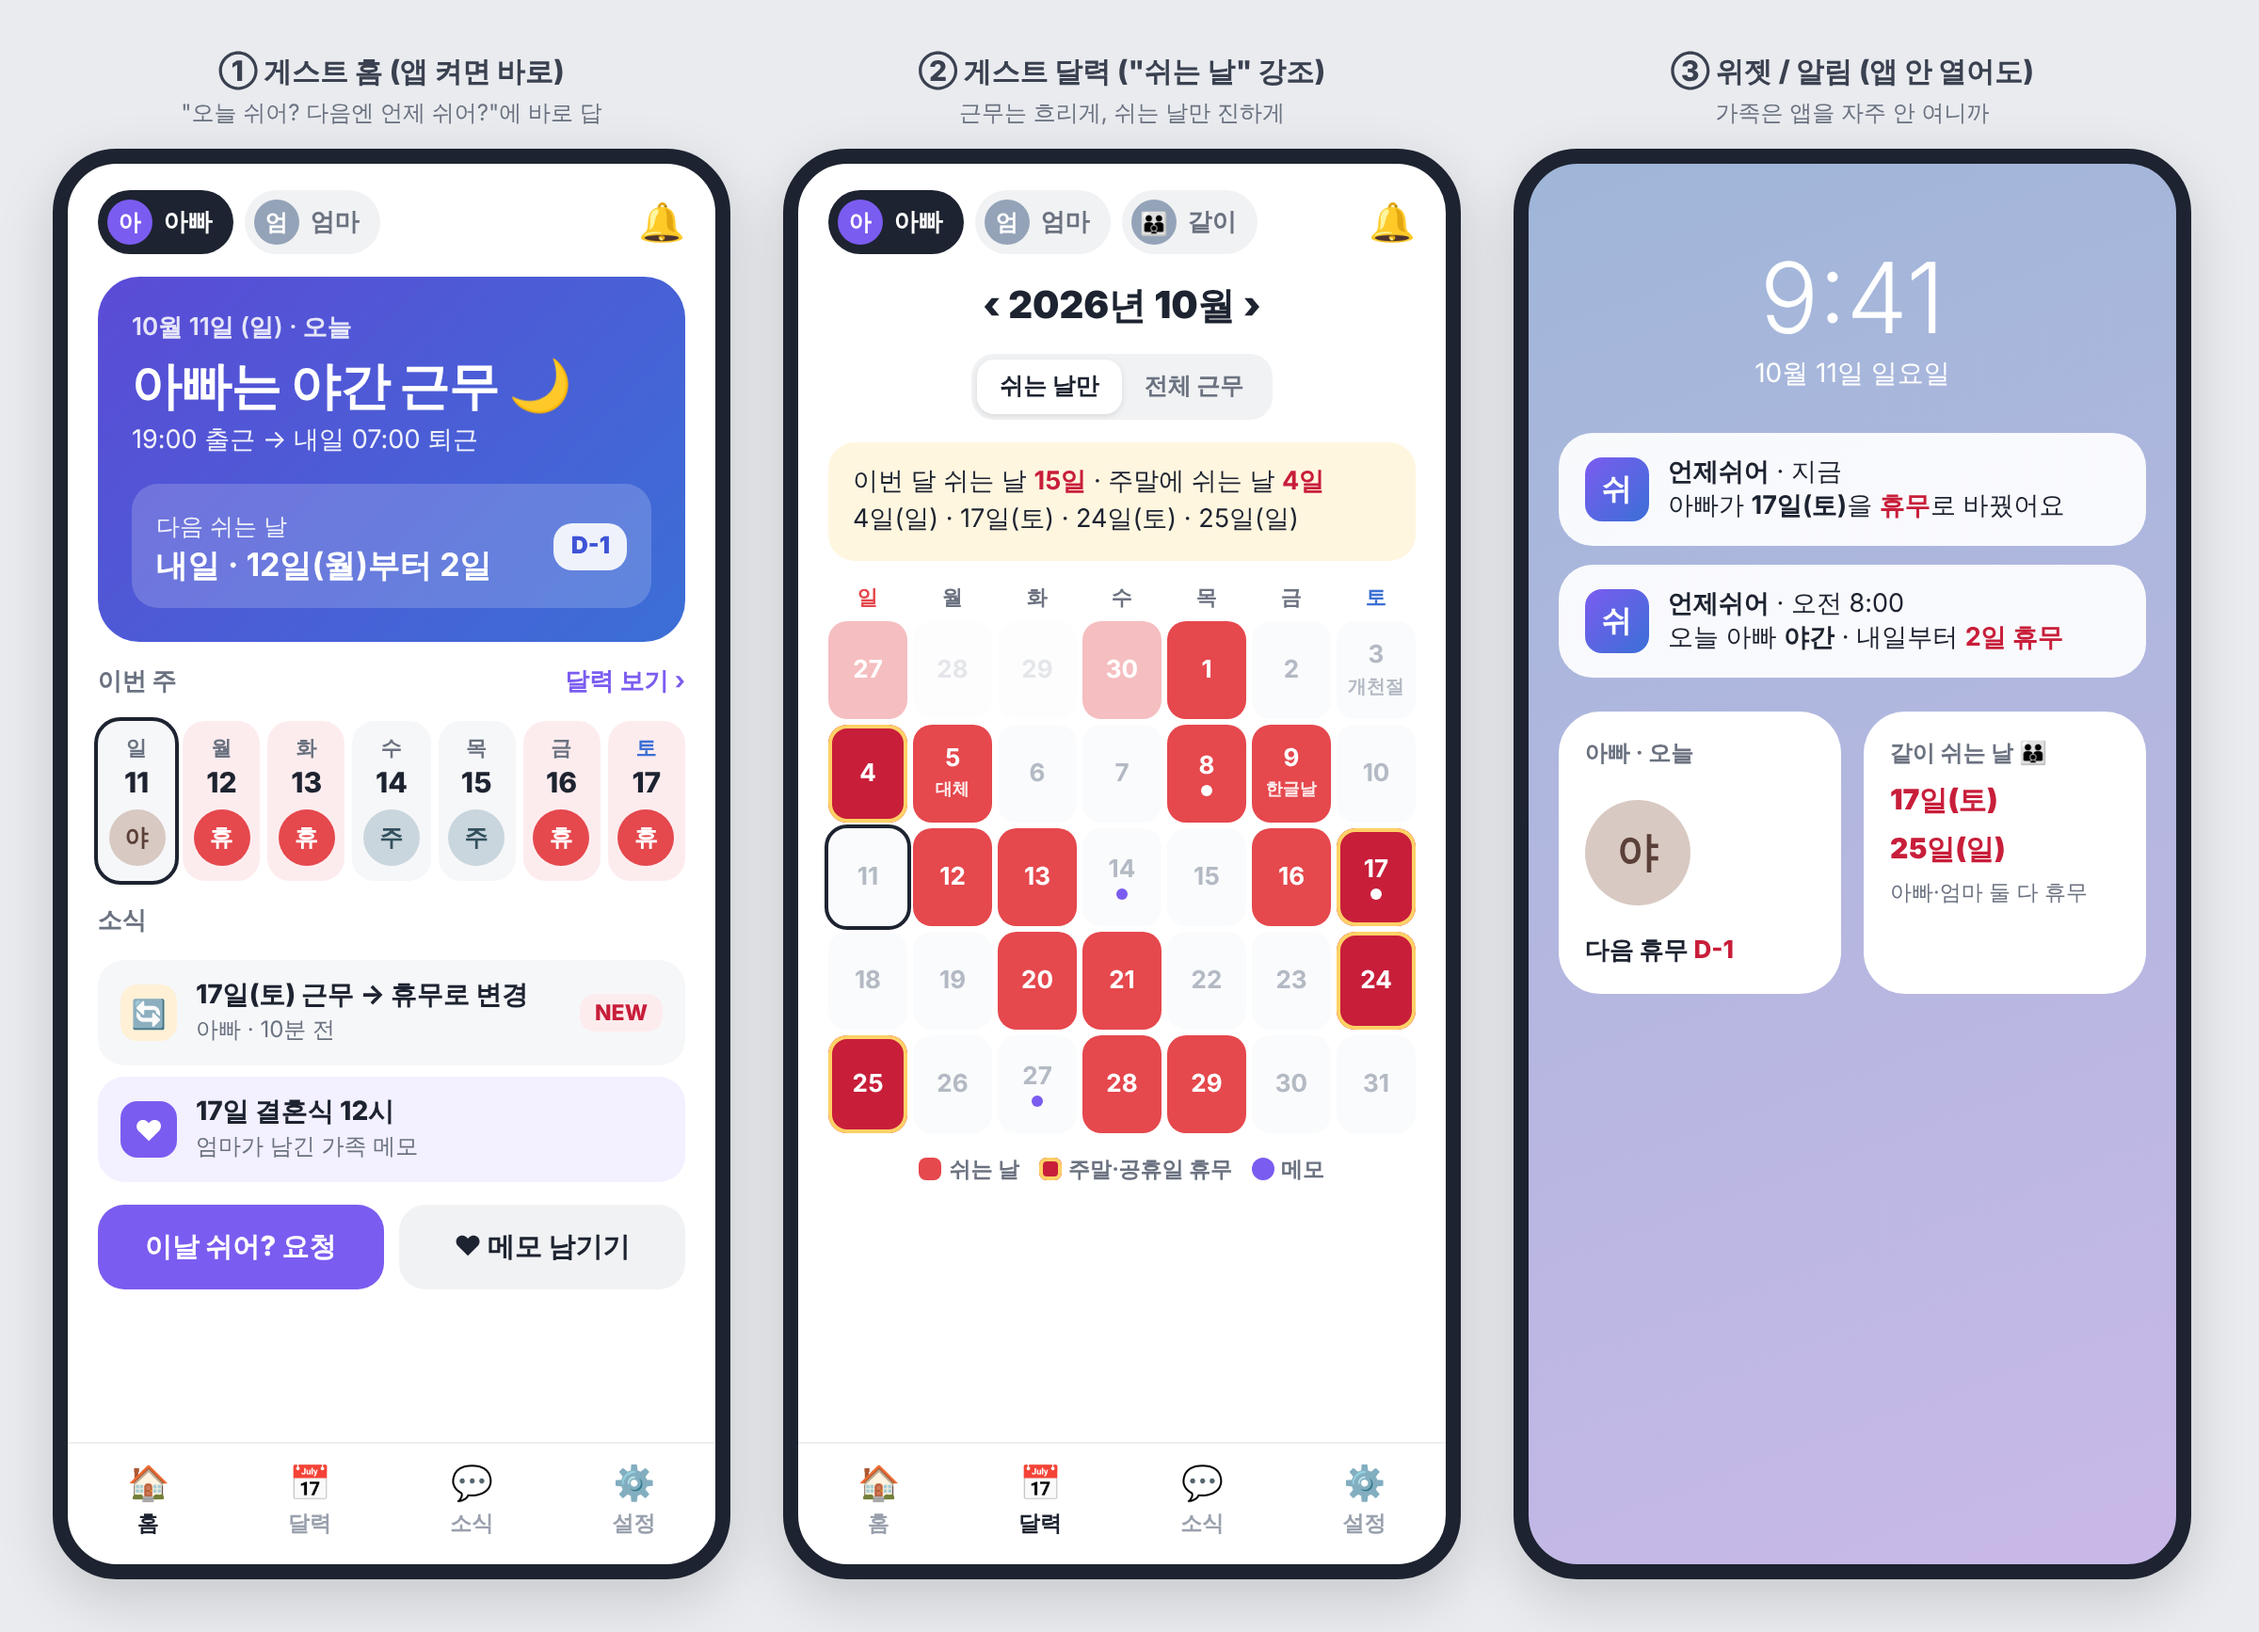
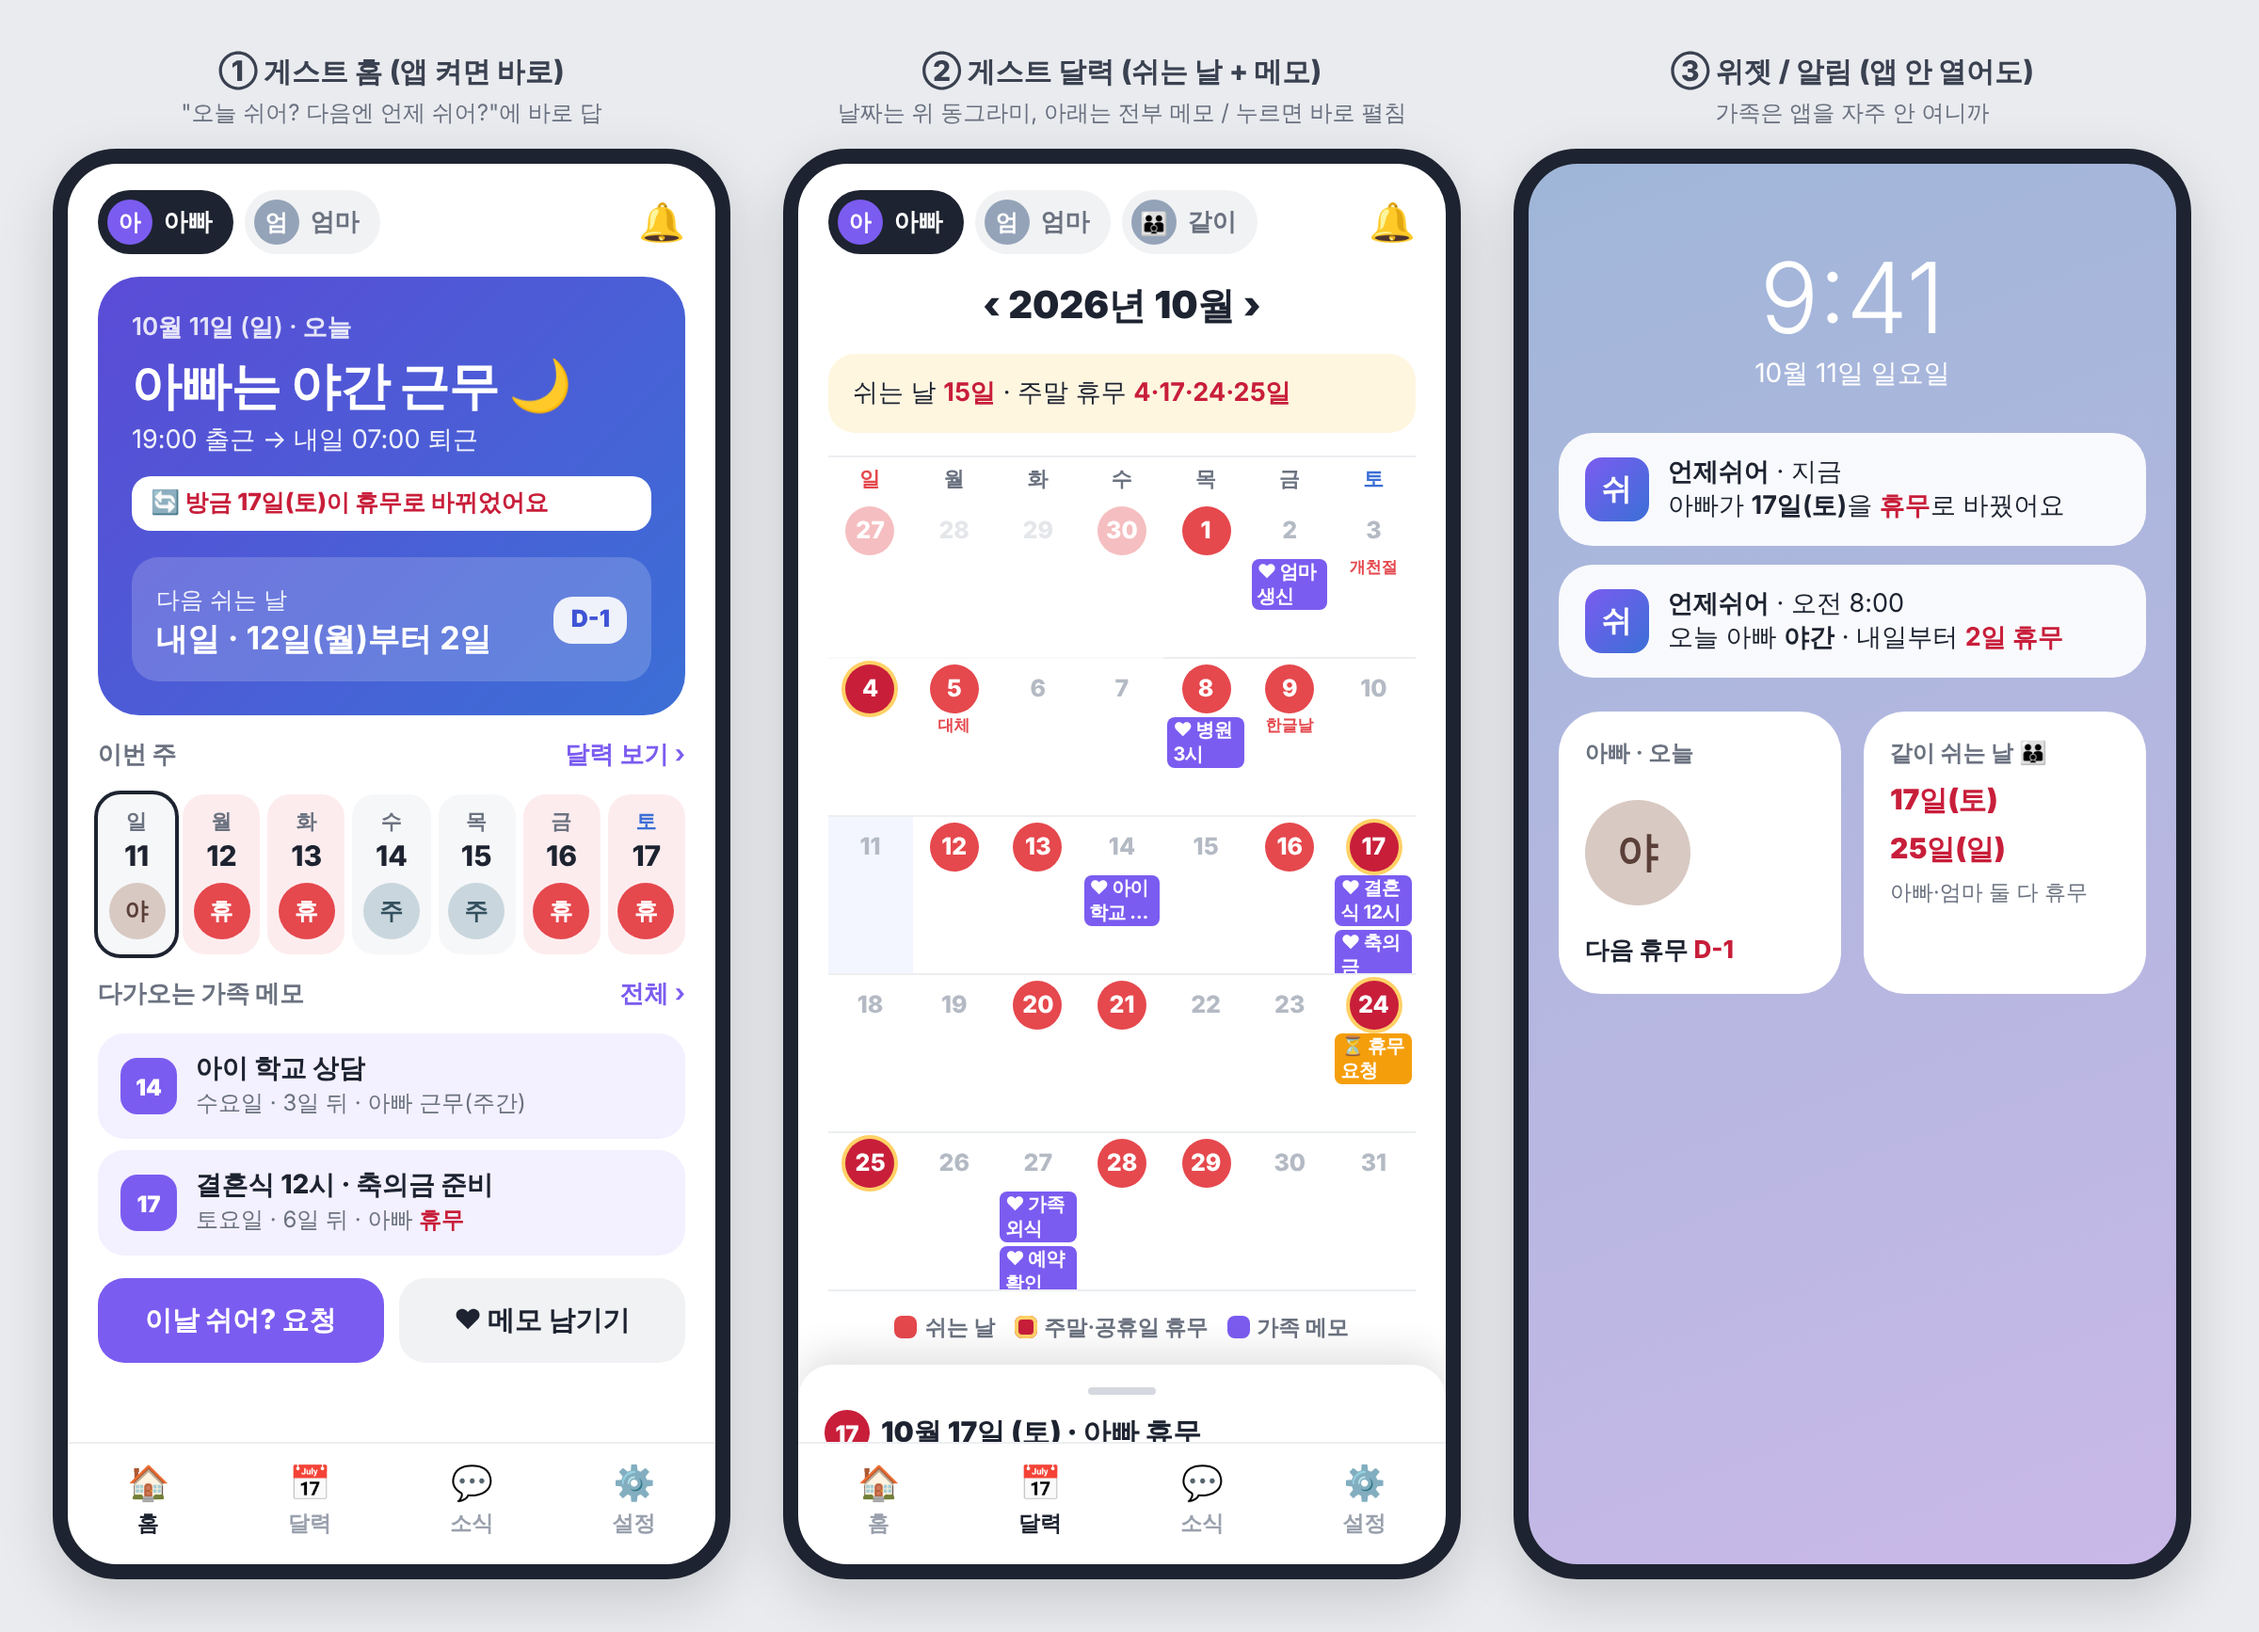
게스트 화면 시안: 메모 강조 (다가오는 메모, 달력 2줄 메모, 날짜 시트)
Claude-Session: https://claude.ai/code/session_01DP2NyZv5qNdwYSJLeYP8U7

diff --git a/design/ui-guest.html b/design/ui-guest.html
@@ -64,6 +64,23 @@ body{font-family:-apple-system,"Apple SD Gothic Neo","Noto Sans KR",sans-serif;b
 .lg i{display:inline-block;width:12px;height:12px;border-radius:4px;vertical-align:-2px;margin-right:4px}
 .sum{background:#fff6e0;border-radius:14px;padding:11px 13px;font-size:13.5px;line-height:1.5}
 .sum b{color:#c81e3a}
+
+.cal2{display:grid;grid-template-columns:repeat(7,1fr);border-top:1px solid #eceef1}
+.cal2 .h{font-size:11px;font-weight:800;text-align:center;color:#6b7280;padding:4px 0}
+.q{height:84px;border-bottom:1px solid #eceef1;display:flex;flex-direction:column;align-items:center;gap:2px;padding-top:3px;overflow:hidden}
+.q .n{width:26px;height:26px;border-radius:50%;display:grid;place-items:center;font-size:12.5px;font-weight:800;color:#b4bac4;flex:none}
+.q.r .n{background:#e5484d;color:#fff}
+.q.r.wk .n{background:#c81e3a;box-shadow:0 0 0 2px #ffd166}
+.q.t{background:#f3f6ff}
+.q.o{opacity:.35}
+.q .p{width:calc(100% - 4px);font-size:10px;line-height:12.5px;max-height:27px;border-radius:4px;padding:1px 3px;overflow:hidden;word-break:break-all;display:-webkit-box;-webkit-line-clamp:2;-webkit-box-orient:vertical;font-weight:700;background:#7b5cf0;color:#fff;flex:none;letter-spacing:-.3px}
+.q .p.req{background:#f59e0b}
+.q .hn{font-size:8.5px;color:#e5484d;font-weight:800;line-height:10px}
+.sheet{background:#fff;border-radius:18px 18px 0 0;box-shadow:0 -6px 20px rgba(0,0,0,.12);padding:12px 14px 6px;margin:0 -16px}
+.sheet .gr{width:36px;height:4px;border-radius:2px;background:#d5d8de;margin:0 auto 8px}
+.sheet h4{font-size:15px;font-weight:900;display:flex;align-items:center;gap:6px}
+.sheet .mc{background:#f3f0ff;border-left:4px solid #7b5cf0;border-radius:10px;padding:9px 11px;margin-top:7px;font-size:14px;font-weight:700}
+.sheet .mc small{display:block;font-size:11.5px;color:#6b7280;font-weight:600;margin-top:2px}
 </style></head><body>
 
 <div class="col"><div class="cap">① 게스트 홈 (앱 켜면 바로)</div><div class="sub">"오늘 쉬어? 다음엔 언제 쉬어?"에 바로 답</div>
@@ -74,6 +91,7 @@ body{font-family:-apple-system,"Apple SD Gothic Neo","Noto Sans KR",sans-serif;b
       <div class="l">10월 11일 (일) · 오늘</div>
       <div class="t">아빠는 야간 근무 🌙</div>
       <div class="s">19:00 출근 → 내일 07:00 퇴근</div>
+      <div style="margin-top:10px;background:#fff;color:#c81e3a;border-radius:10px;padding:6px 10px;font-size:12.5px;font-weight:800">🔄 방금 17일(토)이 휴무로 바뀌었어요</div>
       <div class="nx"><div><span>다음 쉬는 날</span><br><b>내일 · 12일(월)부터 2일</b></div><span class="dd">D-1</span></div>
     </div>
     <div class="sec">이번 주 <a>달력 보기 ›</a></div>
@@ -86,32 +104,26 @@ body{font-family:-apple-system,"Apple SD Gothic Neo","Noto Sans KR",sans-serif;b
       <div class="wd rest"><div class="d">금</div><div class="n">16</div><div class="k">휴</div></div>
       <div class="wd rest"><div class="d" style="color:#3b6fd6">토</div><div class="n">17</div><div class="k">휴</div></div>
     </div>
-    <div class="sec">소식</div>
+    <div class="sec">다가오는 가족 메모 <a>전체 ›</a></div>
     <div class="list">
-      <div class="row"><span class="ic" style="background:#fff0d6">🔄</span><div><b>17일(토) 근무 → 휴무로 변경</b><small>아빠 · 10분 전</small></div><span class="tag" style="background:#fdecee;color:#c81e3a">NEW</span></div>
-      <div class="row memo"><span class="ic" style="background:#7b5cf0;color:#fff">♥</span><div><b>17일 결혼식 12시</b><small>엄마가 남긴 가족 메모</small></div></div>
+      <div class="row memo"><span class="ic" style="background:#7b5cf0;color:#fff;font-size:12px;font-weight:900">14</span><div><b>아이 학교 상담</b><small>수요일 · 3일 뒤 · 아빠 근무(주간)</small></div></div>
+      <div class="row memo"><span class="ic" style="background:#7b5cf0;color:#fff;font-size:12px;font-weight:900">17</span><div><b>결혼식 12시 · 축의금 준비</b><small>토요일 · 6일 뒤 · 아빠 <b style="color:#c81e3a">휴무</b></small></div></div>
     </div>
     <div class="btns"><div class="btn p">이날 쉬어? 요청</div><div class="btn g">♥ 메모 남기기</div></div>
   </div>
   <div class="nav"><span class="on"><i>🏠</i>홈</span><span><i>📅</i>달력</span><span><i>💬</i>소식</span><span><i>⚙</i>설정</span></div>
 </div></div>
 
-<div class="col"><div class="cap">② 게스트 달력 ("쉬는 날" 강조)</div><div class="sub">근무는 흐리게, 쉬는 날만 진하게</div>
+<div class="col"><div class="cap">② 게스트 달력 (쉬는 날 + 메모)</div><div class="sub">날짜는 위 동그라미, 아래는 전부 메모 / 누르면 바로 펼침</div>
 <div class="ph">
   <div class="top"><div class="who"><span class="av on"><i>아</i>아빠</span><span class="av"><i>엄</i>엄마</span><span class="av"><i>👪</i>같이</span></div><span class="bell">🔔</span></div>
   <div class="b">
     <div class="mh">‹ 2026년 10월 ›</div>
-    <div class="seg"><span class="on">쉬는 날만</span><span>전체 근무</span></div>
-    <div class="sum">이번 달 쉬는 날 <b>15일</b> · 주말에 쉬는 날 <b>4일</b><br>4일(일) · 17일(토) · 24일(토) · 25일(일)</div>
-    <div class="cal">
-      <div class="h" style="color:#e5484d">일</div><div class="h">월</div><div class="h">화</div><div class="h">수</div><div class="h">목</div><div class="h">금</div><div class="h" style="color:#3b6fd6">토</div>
-      <div class="c r o">27</div><div class="c o">28</div><div class="c o">29</div><div class="c r o">30</div><div class="c r">1</div><div class="c">2</div><div class="c">3<small>개천절</small></div>
-      <div class="c r wk">4</div><div class="c r">5<span class="hl">대체</span></div><div class="c">6</div><div class="c">7</div><div class="c r">8<i class="mm"></i></div><div class="c r">9<span class="hl">한글날</span></div><div class="c">10</div>
-      <div class="c t">11</div><div class="c r">12</div><div class="c r">13</div><div class="c">14<i class="mm"></i></div><div class="c">15</div><div class="c r">16</div><div class="c r wk">17<i class="mm"></i></div>
-      <div class="c">18</div><div class="c">19</div><div class="c r">20</div><div class="c r">21</div><div class="c">22</div><div class="c">23</div><div class="c r wk">24</div>
-      <div class="c r wk">25</div><div class="c">26</div><div class="c">27<i class="mm"></i></div><div class="c r">28</div><div class="c r">29</div><div class="c">30</div><div class="c">31</div>
-    </div>
-    <div class="lg"><span><i style="background:#e5484d"></i>쉬는 날</span><span><i style="background:#c81e3a;box-shadow:0 0 0 2px #ffd166 inset"></i>주말·공휴일 휴무</span><span><i style="background:#7b5cf0;border-radius:50%"></i>메모</span></div>
+    
+    <div class="sum">쉬는 날 <b>15일</b> · 주말 휴무 <b>4·17·24·25일</b></div>
+    <div class="cal2"><div class="h" style="color:#e5484d">일</div><div class="h">월</div><div class="h">화</div><div class="h">수</div><div class="h">목</div><div class="h">금</div><div class="h" style="color:#3b6fd6">토</div><div class="q r o"><div class="n">27</div></div><div class="q o"><div class="n">28</div></div><div class="q o"><div class="n">29</div></div><div class="q r o"><div class="n">30</div></div><div class="q r"><div class="n">1</div></div><div class="q "><div class="n">2</div><div class="p">♥ 엄마 생신</div></div><div class="q "><div class="n">3</div><div class=hn>개천절</div></div><div class="q r wk"><div class="n">4</div></div><div class="q r"><div class="n">5</div><div class=hn>대체</div></div><div class="q "><div class="n">6</div></div><div class="q "><div class="n">7</div></div><div class="q r"><div class="n">8</div><div class="p">♥ 병원 3시</div></div><div class="q r"><div class="n">9</div><div class=hn>한글날</div></div><div class="q "><div class="n">10</div></div><div class="q t"><div class="n">11</div></div><div class="q r"><div class="n">12</div></div><div class="q r"><div class="n">13</div></div><div class="q "><div class="n">14</div><div class="p">♥ 아이 학교 상담</div></div><div class="q "><div class="n">15</div></div><div class="q r"><div class="n">16</div></div><div class="q r wk"><div class="n">17</div><div class="p">♥ 결혼식 12시</div><div class="p">♥ 축의금</div></div><div class="q "><div class="n">18</div></div><div class="q "><div class="n">19</div></div><div class="q r"><div class="n">20</div></div><div class="q r"><div class="n">21</div></div><div class="q "><div class="n">22</div></div><div class="q "><div class="n">23</div></div><div class="q r wk"><div class="n">24</div><div class="p req">⏳ 휴무 요청</div></div><div class="q r wk"><div class="n">25</div></div><div class="q "><div class="n">26</div></div><div class="q "><div class="n">27</div><div class="p">♥ 가족 외식</div><div class="p">♥ 예약 확인</div></div><div class="q r"><div class="n">28</div></div><div class="q r"><div class="n">29</div></div><div class="q "><div class="n">30</div></div><div class="q "><div class="n">31</div></div></div>
+    <div class="lg"><span><i style="background:#e5484d"></i>쉬는 날</span><span><i style="background:#c81e3a;box-shadow:0 0 0 2px #ffd166 inset"></i>주말·공휴일 휴무</span><span><i style="background:#7b5cf0"></i>가족 메모</span></div>
+    <div class="sheet"><div class="gr"></div><h4><span style="background:#c81e3a;color:#fff;border-radius:50%;width:24px;height:24px;display:grid;place-items:center;font-size:12px">17</span>10월 17일 (토) · 아빠 휴무</h4><div class="mc">♥ 결혼식 12시<small>엄마 · 어제</small></div><div class="mc">♥ 축의금 준비<small>아빠 · 2시간 전</small></div></div>
   </div>
   <div class="nav"><span><i>🏠</i>홈</span><span class="on"><i>📅</i>달력</span><span><i>💬</i>소식</span><span><i>⚙</i>설정</span></div>
 </div></div>
